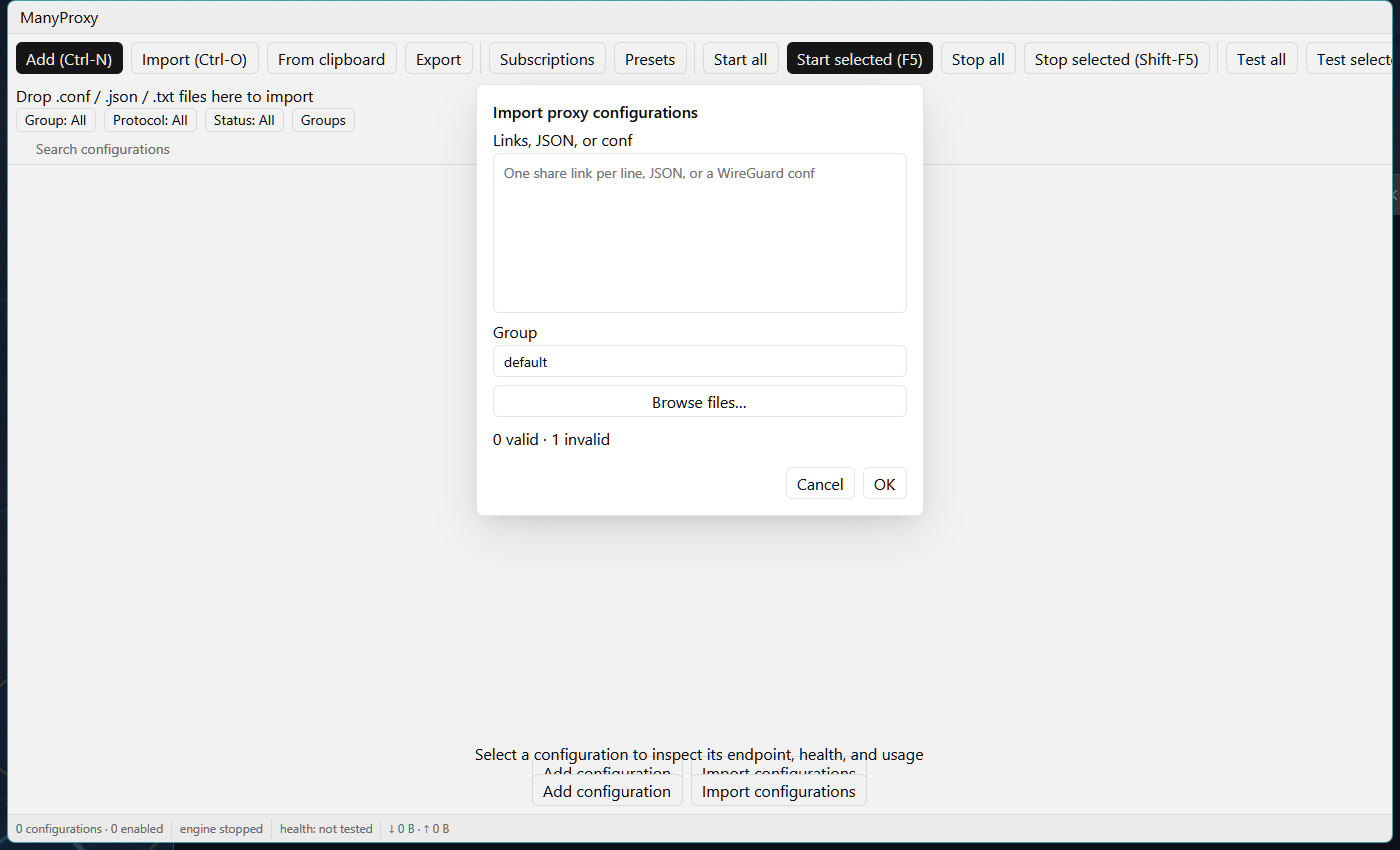
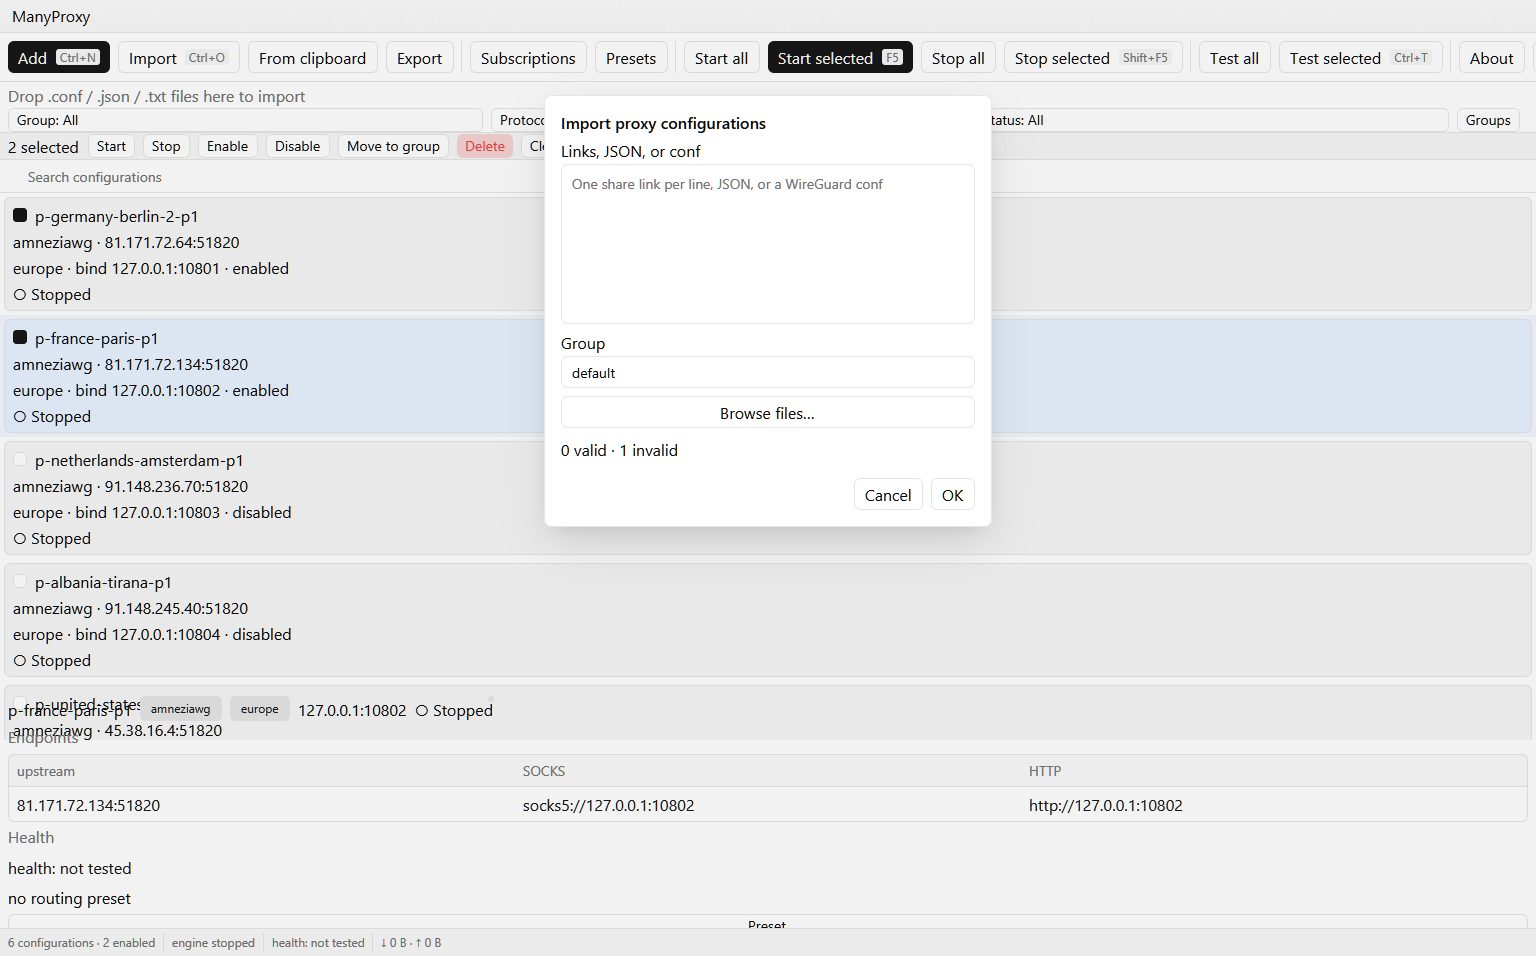
docs: T10 fresh live screenshots of the completed UI

diff --git a/README.md b/README.md
@@ -2,7 +2,7 @@
 
 Local-only proxy library: store configs, import share links, refresh subscriptions, and serve each config on its own `127.0.0.1:<port>` endpoint (SOCKS5 + HTTP). No system proxy, TUN, DNS, or routing changes — ever.
 
-> Screenshots: ![library list](assets/screenshots/library.png) · ![Add dialog](assets/screenshots/add-dialog.png) · ![Import dialog with preview](assets/screenshots/import-dialog.png) · ![Subscriptions dialog](assets/screenshots/subscriptions-dialog.png) — live captures via `cargo run` (empty library).
+> Screenshots: ![library list](assets/screenshots/library.png) · ![Add dialog](assets/screenshots/add-dialog.png) · ![Import dialog with preview](assets/screenshots/import-dialog.png) · ![Subscriptions dialog](assets/screenshots/subscriptions-dialog.png) — live captures via `cargo run` (seeded demo library).
 
 ## Install / run
 
